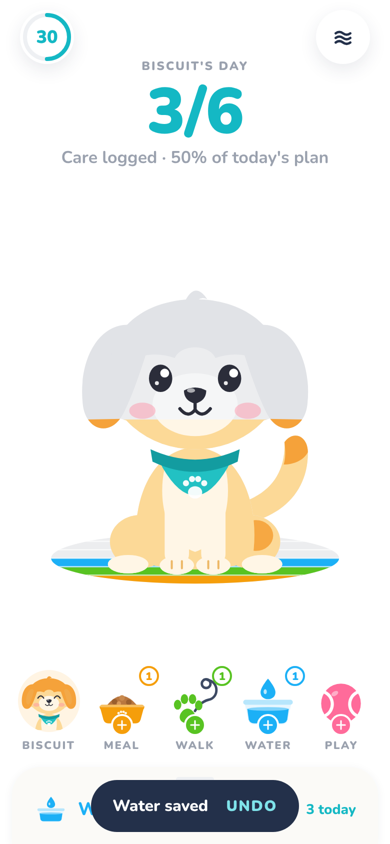
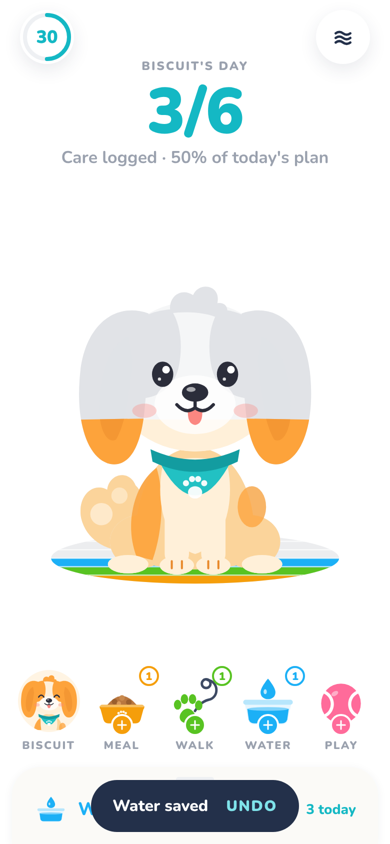
Apply approved GPT art board v1 to the dog & cat rigs
- Redraw dog: cream face, orange eye patches, curly tuft, long ears, tongue out,
  body patches, fluffy tail on the left; honey palette sampled from the board
- Redraw cat: white blaze into big muzzle, forehead stripes, dark whiskers,
  curled tail; tabby palette sampled from the board
- Store board v1 + per-section slices as reference in docs/art/gpt-board-v1
- docs/art/ART_STATUS.md: what is applied, what needs full-size files

Claude-Session: https://claude.ai/code/session_01FadyXk4GTkG51z9fMbnELQ

diff --git a/src/animation/art.tsx b/src/animation/art.tsx
@@ -83,22 +83,15 @@ export type SpeciesArt = {
 
 const mirror = (children: React.ReactNode) => <G transform={`translate(${VB_W} 0) scale(-1 1)`}>{children}</G>;
 
-// ------------------------------------------------------------------ DOG
-
-const dogEar = (p: Paint) => (
-  <G>
-    <Path d="M92 74 C58 66 34 104 38 150 C40 176 64 184 77 162 C88 142 98 112 106 88 Z" fill={p.patch} />
-    <Path d="M80 92 C62 98 54 124 56 146 C58 158 66 160 71 150 C78 134 84 114 88 98 Z" fill={p.shade} opacity={0.35} />
-  </G>
-);
+// ------------------------------------------------------------------ shared face bits
 
 const eyePair = (p: Paint, cxL: number, cxR: number, cy: number, rx: number, ry: number) => (
   <G>
     {[cxL, cxR].map((cx) => (
       <G key={cx}>
         <Ellipse cx={cx} cy={cy} rx={rx} ry={ry} fill={p.ink} />
-        <Circle cx={cx + rx * 0.35} cy={cy - ry * 0.38} r={rx * 0.38} fill={p.white} />
-        <Circle cx={cx - rx * 0.32} cy={cy + ry * 0.35} r={rx * 0.17} fill={p.white} opacity={0.9} />
+        <Circle cx={cx + rx * 0.32} cy={cy - ry * 0.36} r={rx * 0.36} fill={p.white} />
+        <Circle cx={cx - rx * 0.3} cy={cy + ry * 0.38} r={rx * 0.15} fill={p.white} opacity={0.85} />
       </G>
     ))}
   </G>
@@ -119,29 +112,44 @@ const happyPair = (p: Paint, cxL: number, cxR: number, cy: number, w: number) =>
   </G>
 );
 
+// ------------------------------------------------------------------ DOG
+// Matches the approved GPT board (docs/art/gpt-board-v1.png): cream face with orange eye
+// patches and a cream blaze to the crown, curly orange tuft, long orange ears hanging from
+// the top of the head, tongue out, cream body with orange patches, fluffy tail on the left.
+
+const dogEar = (p: Paint) => (
+  <G>
+    <Path d="M104 62 C72 50 42 72 36 118 C30 164 40 204 64 210 C86 214 96 186 99 154 C102 122 112 86 104 62 Z" fill={p.patch} />
+    <Path d="M84 84 C64 92 54 124 54 156 C54 178 62 190 70 186 C80 170 84 140 88 108 Z" fill={p.shade} opacity={0.45} />
+  </G>
+);
+
+const dogEyePatch = (p: Paint) => (
+  <Path d="M72 118 C68 82 94 60 126 58 C136 72 138 94 134 114 C130 134 114 146 94 146 C82 144 74 134 72 118 Z" fill={p.patch} />
+);
+
 export const DOG: SpeciesArt = {
-  pivots: { tail: [204, 262], neck: [150, 196], earL: [96, 82], earR: [204, 82], eyes: [150, 128] },
+  pivots: { tail: [102, 290], neck: [150, 196], earL: [98, 70], earR: [202, 70], eyes: [150, 124] },
   earsBehindHead: false,
   tail: (p) => (
     <G>
-      <Path d="M196 268 C236 262 262 236 262 198 C262 182 248 176 239 188 C240 218 224 240 192 248 Z" fill={p.coat} />
-      <Path d="M262 198 C262 182 248 176 239 188 C240 196 240 204 238 210 C248 210 258 206 262 198 Z" fill={p.patch} />
+      <Path d="M104 294 C72 300 44 288 38 262 C34 240 50 226 64 234 C66 218 86 214 92 230 C104 242 108 268 104 294 Z" fill={p.coat} />
+      <Circle cx={58} cy={258} r={11} fill={p.light} opacity={0.75} />
+      <Circle cx={76} cy={240} r={8} fill={p.light} opacity={0.6} />
     </G>
   ),
   body: (p) => (
     <G>
-      {/* back legs / haunches */}
       <Ellipse cx={96} cy={286} rx={30} ry={26} fill={p.coat} />
       <Ellipse cx={204} cy={286} rx={30} ry={26} fill={p.coat} />
-      <Ellipse cx={210} cy={280} rx={17} ry={15} fill={p.patch} opacity={0.9} />
-      {/* torso */}
       <Path d="M94 306 C84 254 104 196 150 194 C196 196 216 254 206 306 Q150 320 94 306 Z" fill={p.coat} />
+      {/* orange patches */}
+      <Path d="M92 300 C80 268 90 230 112 214 C120 240 118 276 108 304 Z" fill={p.patch} opacity={0.9} />
+      <Ellipse cx={206} cy={252} rx={14} ry={20} fill={p.patch} opacity={0.75} />
       {/* chest */}
-      <Path d="M120 214 C132 204 168 204 180 214 C188 250 176 288 150 296 C124 288 112 250 120 214 Z" fill={p.light} />
-      {/* front legs */}
+      <Path d="M118 212 C132 202 168 202 182 212 C190 250 178 290 150 298 C122 290 110 250 118 212 Z" fill={p.light} />
       <Rect x={120} y={236} width={24} height={74} rx={12} fill={p.light} />
       <Rect x={156} y={236} width={24} height={74} rx={12} fill={p.light} />
-      {/* paws */}
       <Ellipse cx={84} cy={308} rx={20} ry={9} fill={p.light} />
       <Ellipse cx={216} cy={308} rx={20} ry={9} fill={p.light} />
       <Ellipse cx={132} cy={309} rx={17} ry={9} fill={p.light} />
@@ -166,27 +174,27 @@ export const DOG: SpeciesArt = {
   earR: (p) => mirror(dogEar(p)),
   head: (p) => (
     <G>
-      <Ellipse cx={88} cy={142} rx={28} ry={26} fill={p.coat} />
-      <Ellipse cx={212} cy={142} rx={28} ry={26} fill={p.coat} />
-      <Ellipse cx={150} cy={122} rx={86} ry={74} fill={p.coat} />
-      {/* cap with central blaze */}
-      <Path
-        d="M66 120 C64 74 104 48 150 48 C196 48 236 74 234 120 C214 104 192 98 170 106 C164 92 136 92 130 106 C108 98 86 104 66 120 Z"
-        fill={p.patch}
-      />
-      <Path d="M140 50 Q150 30 162 48 Q154 44 148 54 Z" fill={p.patch} />
+      <Ellipse cx={92} cy={150} rx={26} ry={24} fill={p.light} />
+      <Ellipse cx={208} cy={150} rx={26} ry={24} fill={p.light} />
+      <Ellipse cx={150} cy={124} rx={84} ry={74} fill={p.light} />
+      {dogEyePatch(p)}
+      {mirror(dogEyePatch(p))}
+      {/* curly tuft */}
+      <Path d="M126 62 C122 46 136 36 148 44 C154 30 176 34 172 52 C182 50 186 62 176 68 C160 60 140 60 126 62 Z" fill={p.patch} />
       {/* muzzle */}
-      <Ellipse cx={150} cy={152} rx={42} ry={31} fill={p.light} />
+      <Ellipse cx={150} cy={152} rx={40} ry={29} fill={p.white} opacity={0.75} />
     </G>
   ),
   face: (p) => (
     <G>
-      <Ellipse cx={98} cy={158} rx={13} ry={8} fill={p.blush} opacity={0.45} />
-      <Ellipse cx={202} cy={158} rx={13} ry={8} fill={p.blush} opacity={0.45} />
-      <Path d="M139 138 Q150 132 161 138 Q161 148 150 151 Q139 148 139 138 Z" fill={p.ink} />
-      <Ellipse cx={146} cy={138} rx={4} ry={2.2} fill={p.white} opacity={0.6} />
+      <Ellipse cx={100} cy={158} rx={12} ry={7} fill={p.blush} opacity={0.35} />
+      <Ellipse cx={200} cy={158} rx={12} ry={7} fill={p.blush} opacity={0.35} />
+      {/* small tongue always out (approved master) */}
+      <Path d="M143 157 Q142 171 150 172 Q158 171 157 157 Z" fill="#FB8781" />
+      <Ellipse cx={150} cy={140} rx={13} ry={9} fill={p.ink} />
+      <Ellipse cx={146} cy={137} rx={4.5} ry={2.4} fill={p.white} opacity={0.6} />
       <Path
-        d="M150 151 L150 157 M135 156 Q143 166 150 157 Q157 166 165 156"
+        d="M150 149 L150 155 M132 152 Q141 162 150 155 Q159 162 168 152"
         stroke={p.ink}
         strokeWidth={3.2}
         strokeLinecap="round"
@@ -195,43 +203,35 @@ export const DOG: SpeciesArt = {
       />
     </G>
   ),
-  eyes: (p) => eyePair(p, 116, 184, 126, 11.5, 13.5),
-  happyEyes: (p) => happyPair(p, 116, 184, 126, 12),
-  tongue: (p) => (
+  eyes: (p) => eyePair(p, 118, 182, 122, 10.5, 12.5),
+  happyEyes: (p) => happyPair(p, 118, 182, 122, 11),
+  tongue: () => (
     <G>
-      <Path d="M142 159 Q141 180 150 181 Q159 180 158 159 Z" fill="#FF7A93" />
-      <Path d="M150 162 L150 174" stroke="#E2546F" strokeWidth={2} strokeLinecap="round" />
+      <Path d="M141 156 Q140 184 150 185 Q160 184 159 156 Z" fill="#FB8781" />
+      <Path d="M150 160 L150 176" stroke="#E2656A" strokeWidth={2} strokeLinecap="round" />
     </G>
   ),
 };
 
 // ------------------------------------------------------------------ CAT
+// Matches the approved GPT board: gray tabby head with forehead stripes either side of a
+// white blaze that widens into a big white muzzle, pink inner ears, dark whiskers, coral
+// collar with gold bell, gray body with white bib and paws, curled tail on the left.
 
 const catEar = (p: Paint) => (
   <G>
-    <Path d="M70 100 L80 36 Q84 26 94 32 L130 72 Z" fill={p.coat} />
-    <Path d="M84 88 L89 48 L114 74 Z" fill={p.pink} />
+    <Path d="M68 104 L78 36 Q82 26 92 32 L132 72 Z" fill={p.coat} />
+    <Path d="M82 92 L87 48 L116 76 Z" fill={p.pink} />
   </G>
 );
 
 export const CAT: SpeciesArt = {
-  pivots: { tail: [198, 292], neck: [150, 198], earL: [100, 82], earR: [200, 82], eyes: [150, 132] },
+  pivots: { tail: [110, 300], neck: [150, 198], earL: [100, 80], earR: [200, 80], eyes: [150, 130] },
   earsBehindHead: true,
   tail: (p) => (
     <G>
-      <Path
-        d="M196 296 C246 296 270 262 262 214 C258 192 268 176 282 182"
-        stroke={p.coat}
-        strokeWidth={24}
-        strokeLinecap="round"
-        fill="none"
-      />
-      <Path
-        d="M246 286 L258 274 M262 256 L274 252 M262 232 L276 232 M262 210 L274 206"
-        stroke={p.patch}
-        strokeWidth={7}
-        strokeLinecap="round"
-      />
+      <Path d="M112 302 C74 308 46 296 42 270 C40 250 56 238 72 246" stroke={p.coat} strokeWidth={30} strokeLinecap="round" fill="none" />
+      <Path d="M70 300 L66 286 M50 286 L58 276 M44 262 L58 262" stroke={p.patch} strokeWidth={6} strokeLinecap="round" />
     </G>
   ),
   body: (p) => (
@@ -239,8 +239,8 @@ export const CAT: SpeciesArt = {
       <Ellipse cx={100} cy={288} rx={28} ry={24} fill={p.coat} />
       <Ellipse cx={200} cy={288} rx={28} ry={24} fill={p.coat} />
       <Path d="M98 306 C90 252 108 198 150 196 C192 198 210 252 202 306 Q150 318 98 306 Z" fill={p.coat} />
-      <Path d="M104 248 L116 252 M102 266 L116 268 M196 248 L184 252 M198 266 L184 268" stroke={p.patch} strokeWidth={6} strokeLinecap="round" />
-      <Path d="M124 212 C136 204 164 204 176 212 C182 252 170 290 150 296 C130 290 118 252 124 212 Z" fill={p.light} />
+      <Path d="M104 246 L116 250 M102 264 L116 266 M196 246 L184 250 M198 264 L184 266" stroke={p.patch} strokeWidth={6} strokeLinecap="round" />
+      <Path d="M120 208 C134 200 166 200 180 208 C188 252 174 294 150 300 C126 294 112 252 120 208 Z" fill={p.light} />
       <Rect x={122} y={238} width={22} height={72} rx={11} fill={p.light} />
       <Rect x={156} y={238} width={22} height={72} rx={11} fill={p.light} />
       <Ellipse cx={88} cy={308} rx={18} ry={8} fill={p.light} />
@@ -262,43 +262,44 @@ export const CAT: SpeciesArt = {
   earR: (p) => mirror(catEar(p)),
   head: (p) => (
     <G>
-      <Path d="M58 150 L44 158 L62 162 L52 172 L74 168 Z" fill={p.coat} />
-      <Path d="M242 150 L256 158 L238 162 L248 172 L226 168 Z" fill={p.coat} />
-      <Ellipse cx={150} cy={130} rx={92} ry={70} fill={p.light} />
-      {/* tabby cap with inverted V down to the nose */}
+      <Path d="M60 148 L44 156 L62 162 L52 172 L76 168 Z" fill={p.coat} />
+      <Path d="M240 148 L256 156 L238 162 L248 172 L224 168 Z" fill={p.coat} />
+      <Ellipse cx={150} cy={130} rx={92} ry={70} fill={p.coat} />
+      {/* white blaze widening into the muzzle */}
       <Path
-        d="M58 136 C56 86 100 60 150 60 C200 60 244 86 242 136 C224 128 196 120 176 124 L150 152 L124 124 C104 120 76 128 58 136 Z"
-        fill={p.coat}
+        d="M150 80 C158 80 162 98 166 112 C192 118 222 134 226 162 C220 188 186 200 150 200 C114 200 80 188 74 162 C78 134 108 118 134 112 C138 98 142 80 150 80 Z"
+        fill={p.light}
       />
-      <Path d="M150 64 L150 86 M131 68 L135 86 M169 68 L165 86" stroke={p.patch} strokeWidth={6} strokeLinecap="round" />
-      <Path d="M62 112 L80 116 M238 112 L220 116" stroke={p.patch} strokeWidth={6} strokeLinecap="round" />
+      <Path d="M126 70 L130 92 M108 78 L116 96 M174 70 L170 92 M192 78 L184 96" stroke={p.patch} strokeWidth={6} strokeLinecap="round" />
+      <Path d="M64 118 L82 122 M236 118 L218 122" stroke={p.patch} strokeWidth={6} strokeLinecap="round" />
     </G>
   ),
   face: (p) => (
     <G>
-      <Ellipse cx={100} cy={160} rx={13} ry={8} fill={p.blush} opacity={0.45} />
-      <Ellipse cx={200} cy={160} rx={13} ry={8} fill={p.blush} opacity={0.45} />
-      <Path d="M142 148 L158 148 L150 157 Z" fill="#FF8AA2" strokeLinejoin="round" />
+      <Ellipse cx={104} cy={160} rx={12} ry={7} fill={p.blush} opacity={0.35} />
+      <Ellipse cx={196} cy={160} rx={12} ry={7} fill={p.blush} opacity={0.35} />
+      <Path d="M143 146 L157 146 L150 155 Z" fill="#F67475" strokeLinejoin="round" />
       <Path
-        d="M150 157 L150 161 M139 161 Q145 168 150 161 Q155 168 161 161"
+        d="M150 155 L150 159 M139 159 Q145 166 150 159 Q155 166 161 159"
         stroke={p.ink}
         strokeWidth={2.8}
         strokeLinecap="round"
         fill="none"
       />
       <Path
-        d="M118 156 L80 150 M118 163 L82 168 M182 156 L220 150 M182 163 L218 168"
-        stroke="#C5C9D1"
+        d="M112 156 L64 148 M112 164 L66 172 M188 156 L236 148 M188 164 L234 172"
+        stroke={p.ink}
         strokeWidth={2.2}
         strokeLinecap="round"
+        opacity={0.85}
       />
     </G>
   ),
-  eyes: (p) => eyePair(p, 118, 182, 132, 10.5, 12.5),
-  happyEyes: (p) => happyPair(p, 118, 182, 132, 11),
+  eyes: (p) => eyePair(p, 118, 182, 130, 10.5, 12.5),
+  happyEyes: (p) => happyPair(p, 118, 182, 130, 12),
   tongue: () => (
     <G>
-      <Ellipse cx={150} cy={166} rx={6.5} ry={5.5} fill="#FF7A93" />
+      <Ellipse cx={150} cy={165} rx={6.5} ry={5.5} fill="#FB8781" />
     </G>
   ),
 };

diff --git a/src/domain/appearance.ts b/src/domain/appearance.ts
@@ -22,13 +22,13 @@ export type Appearance = { paletteId: string; accessoryId: string };
 
 export const PALETTES: Record<Species, Palette[]> = {
   dog: [
-    { id: 'honey', name: 'Honey', coat: '#FCD997', patch: '#F5A23A', light: '#FFF6E6', pink: '#FF8FA3', shade: '#EDB866' },
-    { id: 'cocoa', name: 'Cocoa', coat: '#D9A777', patch: '#8A5634', light: '#FBEBDD', pink: '#FF8FA3', shade: '#B9845A' },
-    { id: 'snow', name: 'Snow', coat: '#F4F1EC', patch: '#C9C2B8', light: '#FFFFFF', pink: '#FF9DB0', shade: '#DCD5CB' },
-    { id: 'midnight', name: 'Midnight', coat: '#5B5F6E', patch: '#33363F', light: '#F3F1EE', pink: '#FF8FA3', shade: '#474A56' },
+    { id: 'honey', name: 'Honey', coat: '#FBD49B', patch: '#FDA33B', light: '#FFF0D9', pink: '#FB8781', shade: '#E8892A' },
+    { id: 'cocoa', name: 'Cocoa', coat: '#DDB089', patch: '#8A5634', light: '#FBEBDD', pink: '#FB8781', shade: '#6E4227' },
+    { id: 'snow', name: 'Snow', coat: '#F4F1EC', patch: '#D3C8B8', light: '#FFFFFF', pink: '#FB8781', shade: '#B9AD9C' },
+    { id: 'midnight', name: 'Midnight', coat: '#5B5F6E', patch: '#33363F', light: '#F3F1EE', pink: '#FB8781', shade: '#1F2128' },
   ],
   cat: [
-    { id: 'tabby', name: 'Tabby', coat: '#9EA2AE', patch: '#5E6270', light: '#FBFAF8', pink: '#FF9BB0', shade: '#7F8391' },
+    { id: 'tabby', name: 'Tabby', coat: '#9A929E', patch: '#665A6D', light: '#FBF3E2', pink: '#F9A3AE', shade: '#7E7586' },
     { id: 'ginger', name: 'Ginger', coat: '#FFB765', patch: '#E8822D', light: '#FFF7EC', pink: '#FF9BB0', shade: '#F29C48' },
     { id: 'tuxedo', name: 'Tuxedo', coat: '#3B3E48', patch: '#24262D', light: '#FAFAFA', pink: '#FF9BB0', shade: '#30333B' },
     { id: 'cream', name: 'Cream', coat: '#F3DFC4', patch: '#D8B88F', light: '#FFFBF5', pink: '#FF9BB0', shade: '#E4CAA6' },

diff --git a/docs/art/ART_STATUS.md b/docs/art/ART_STATUS.md
@@ -1,0 +1,30 @@
+# Art status
+
+## Board v1 (30 Oct 2026): approved art direction
+
+`gpt-board-v1/00-full-board.png` is GPT's board of all 79 prompts from the
+[prompt pack](https://claude.ai/artifact/EWf3LCNkwhLFERDGgrts56), sliced into one file per section.
+
+**How it is used**
+
+| What | Status |
+|---|---|
+| Dog look (C1) | ✅ In-app vector rig redrawn to match: cream face, orange eye patches, cream blaze, curly tuft, long orange ears, tongue out, orange body patches, fluffy tail on the left. Board colors sampled into the `honey` palette. |
+| Cat look (C6) | ✅ Redrawn to match: gray tabby head, white blaze widening into a big muzzle, forehead stripes, pink inner ears, dark whiskers, coral collar and gold bell, curled tail bottom-left. Board colors sampled into the `tabby` palette. |
+| Care objects (C) | ✅ The app's care icons already follow the same design (orange bowl with paw, blue water bowl, green leash, pink ball, lavender brush, brown litter box). |
+| Everything else | 📌 Reference only, waiting for full-size files |
+
+**Why the board can't ship as-is.** The whole board is 1536×1024 for 79 images, so each image is only about 60–130 px.
+On a phone the pet is drawn about 900 px tall and the log-card object about 1000 px, so crops would look blurry.
+Send each image as its own full-size file (the size listed in the pack), using the file names from the pack.
+
+**Message to send GPT to get the full-size files (one image per reply):**
+
+> Using the board you just made as the approved reference, generate each asset again as its own separate image at full size, one per reply, starting with C1 `dog_master.png` (1024×1024, transparent background). Keep the design identical to the board. No text.
+
+## Integration plan when the full-size files arrive
+
+1. **Characters:** trace C4/C9 parts into the layered vector rig (`src/animation/art.tsx`) and add the expressions from C3/C8.
+2. **Animations:** turn AN keyframe sheets into pose sets for `usePetMotion`; walk cycles AN5/AN13 become sprite strips.
+3. **Objects, props, environments, stories:** background removal, then WebP at @1x/@2x/@3x under `assets/`.
+4. **App icon:** U1 → `assets/icon.png`; U2 → adaptive icon foreground; U3 → notification glyph.
